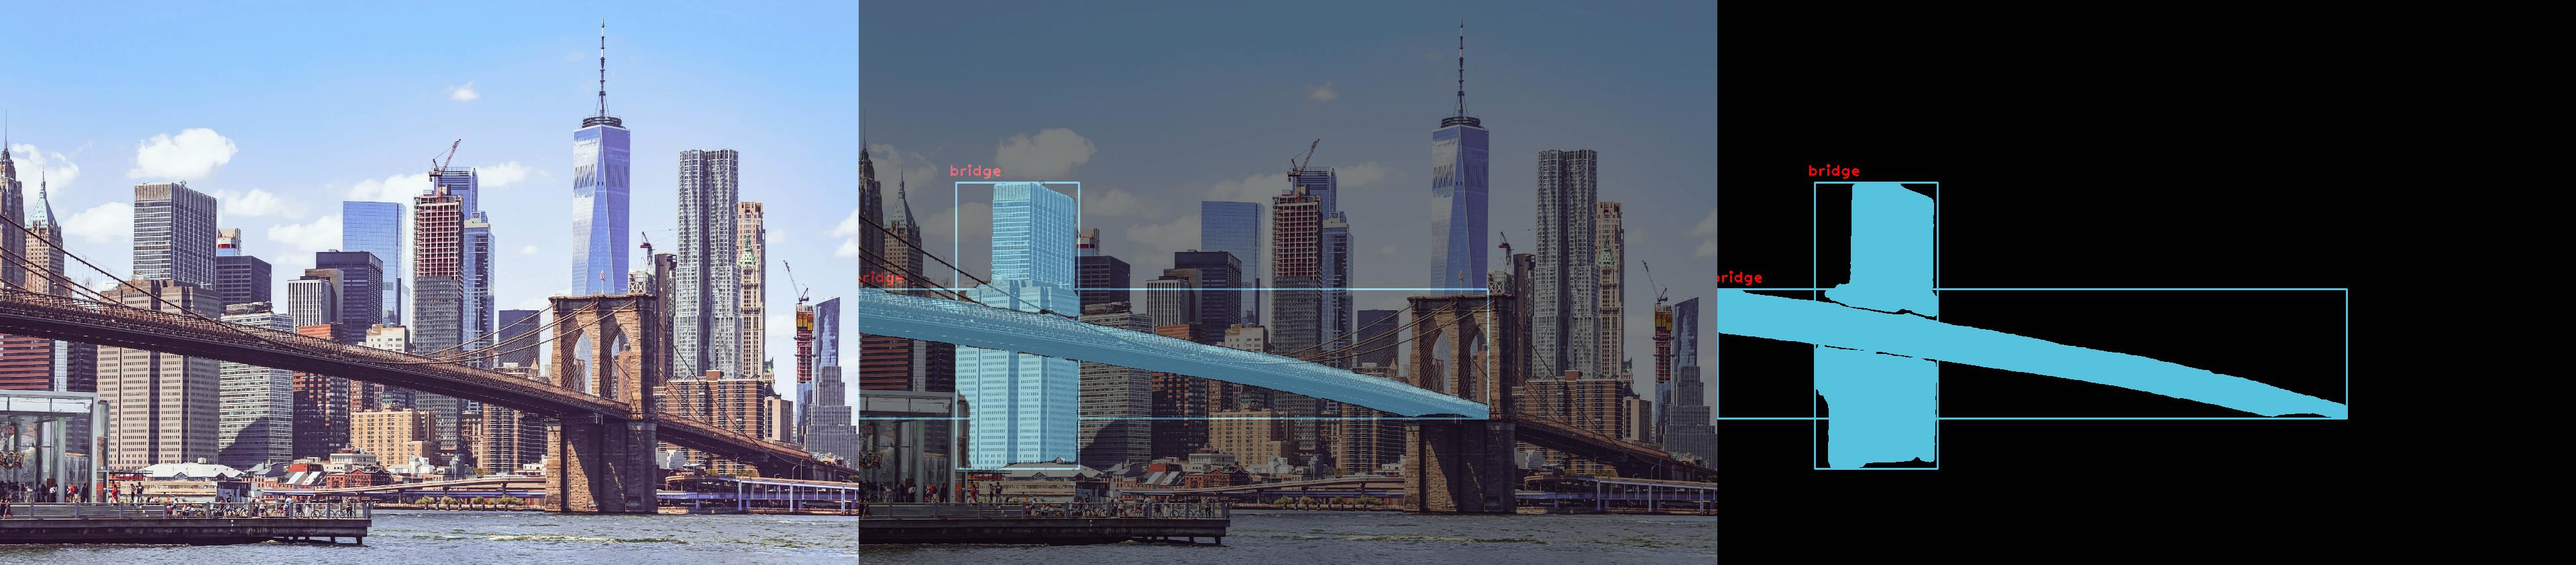
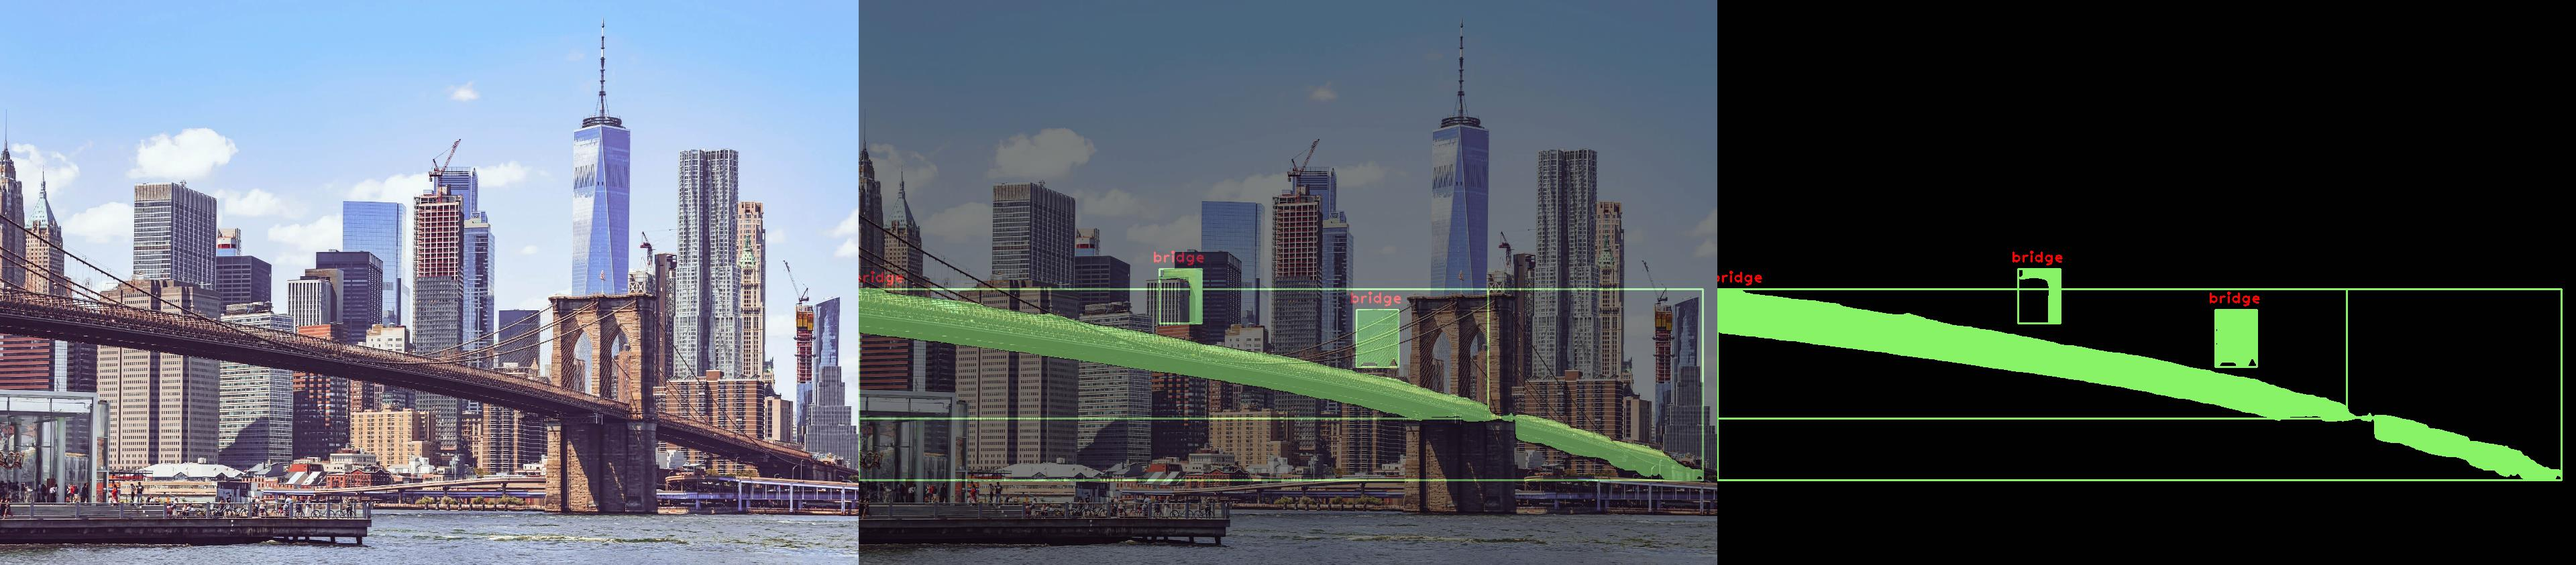
update

Changed region(s): [[0.3125, 0.2776, 1.0, 0.8636]]

diff --git a/README.md b/README.md
@@ -40,7 +40,7 @@ python tools/sam_clip_text_seg.py --input_image_path ./data/test_images/test_bea
 ![athlete_insseg_result](./data/resources/test_baseball_insseg_result.jpg)
 
 `Horse Instance Segmentation Result, Text Prompt: horse`
-![horse_insseg_result](./data/resources/test_horse_insseg_result.jpg)
+![horse_insseg_result](./data/resources/test_horse_insseg_result_after.jpg)
 
 `Dog Instance Segmentation Result, Text Prompt: dog`
 ![dog_insseg_result](./data/resources/test_dog_insseg_result.jpg)
@@ -63,12 +63,19 @@ python tools/sam_clip_text_seg.py --input_image_path ./data/test_images/test_bea
 `Bridge Instance Segmentaton Result, Text Prompt: bridge`
 ![bridge_insseg_result](./data/resources/test_bridge_insseg_result.jpg)
 
+`Airplane Instance Segmentaton Result, Text Prompt: airplane`
+![airplane_insseg_result](./data/resources/test_airplane_insseg_result.jpg)
+
 ### Instance Segmentation Problem
 For now the instance segmentation result is sensitive to classification score threshold. And you may get wrong
 instance segmentation mask if the background mask contains most of the instance mask you
 want.
 
-Most of the background problem has been solved:)
+Most of the background problem has been solved :)
+`Befor Optimize`
+![before](./data/resources/test_horse_insseg_result.jpg)
+`After Optimize`
+![after](./data/resources/test_horse_insseg_result_after.jpg)
 
 ## Test cluster
 Cluster first using sam model to get all obj's mask of the input image. Second using clip model to extract image features for each objects. Third calculate feature distance of every two object pairs. Finally using a similarity threshold to cluster source objects.
